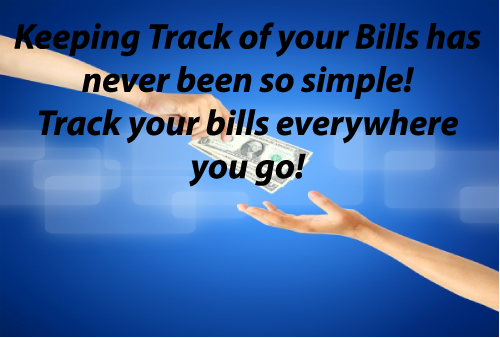
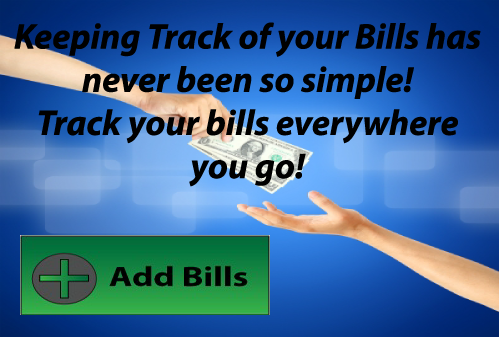
major updates to almost all aspects of app

Changed region(s): [[0.03, 0.6805, 0.54, 0.9467]]

diff --git a/index.html b/index.html
@@ -25,16 +25,18 @@ URL: http://grind-design.com
 		<body>
 			<hgroup>
 				<h1><img src="img/brand.jpg" border=3 /></h1>
-				<h2>keep a simple list of your bills. </h2>
     		</hgroup>
     		<ul>
 				<li><input type="text" id="searchField" placeholder="Search For Bills" /><input type="button" value="Bill Search" id="searchButton"/>
 				</li>
 			</ul>
-			<div data-role="content">
-				<img id="cta" src="img/ctabg.png">
-            	<p class="padding"><a href="additem.html" class="likeAButton" id="button"><img src="img/addItemButton.jpg"/></a></p>
-            </div>
+			<h3><a href="additem.html" class="browse" id="cta"><img id="ctaimg" src="img/ctabg.png"></a></h3>
+            <p><img src="img/Browsemain.png"/></p>
+            <p><a href="error404.html" class="browse" id="billType"><img id="billTypeImg" src="img/btypeimg.png"></a></p>
+            <p><a href="error404.html" class="browse" id="priority"><img id="priorityImg" src="img/prioimg.png"></a></p>
+            <p><a href="error404.html" class="browse" id="dueDate"><img id="dueDateImg" src="img/dueimg.png"></a></p>
+            <p><a href="error404.html" class="browse" id="frequency"><img id="frequencyImg" src="img/freqimg.png"></a></p>
+            <p><a href="error404.html" class="browse" id="paymentType"><img id="paymentTypeImg" src="img/payimg.png"></a></p>
 			<footer>
 			<p> Follow my <a href = "https://github.com/grindnmosh">github</a> for updates </p>
 			<p> Like my work? Follow me on <a href = "https://twitter.com/grindnmosh">Twitter</a></p>
@@ -42,5 +44,4 @@ URL: http://grind-design.com
 		</footer>
 		<script type="text/javascript" src="js/main.js"></script>
 	</body>
-	-->
 </html>

diff --git a/css/main.css b/css/main.css
@@ -25,6 +25,9 @@ h2 {
 	margin: 20px;
 	border: 2px solid black;
 }
+h3 { 
+	text-align: center; 
+}
 form {
 	color: blue;
 	margin: 20px;
@@ -44,7 +47,6 @@ fieldset {
 }
 p { 
 	text-align: center; 
-	line-height: 2em;
 }
 li { 
 	font-family: times;
@@ -58,7 +60,6 @@ li {
 }
 body ul li {
 	list-style: none;
-	text-align: center;
 }
 #searchField {
 	width: 300px;
@@ -92,42 +93,35 @@ form fieldset ul select {
 #freqs {
 	display: inline;
 } 
-#bill {
-	border: 1px solid black;	
-	background: white;
-	padding: 10px 10px 10px 10px;
-	list-style: none;	
-}
 #addNewBill {
 	display: none
 }
 p.padding {
 	padding:0px 65px 100px 65px;
 }
-a.likeAButton {
-	padding:3px 3px 3px 3px;
-	margin:1px;
-	text-decoration:none;
-}
-a.likeAButton:hover {
-	padding:3px 3px 3px 3px;
-	margin:1px;
-	text-decoration:none;
-	border: 2px solid darkblue
-}
-a.likeAButton:active {
-	padding:4px 2px 2px 4px;
-	margin:1px;
-	text-decoration:none;
-}
 .errors {
 	color: red;
 	border: 1px solid red;
+}
+#ctaimg {
+	align: center;
+}
+.browse {
+	align: center;
+}
+h2 {
+	align: center;
 }
 #saveMe {
 	margin-left: 100px;
 	display: inline;
 	background: green;
+}
+div {
+	list-style: none;
+	border: 1px solid black;	
+	background: white;
+	padding: 10px 10px 10px 10px;	
 }
 #resetMe {
 	margin-left: 150px;

diff --git a/js/json.js b/js/json.js
@@ -24,7 +24,7 @@ var sampleBills = {
 		"lfee": ["Late Fee?: ", "N/A"],
 		"textArea": ["comments: ", "Pay extra 30 to help with higher summer bills."]
 	},
-	"loan": {
+	"edu": {
 		"btype": ["Bill Type: ", "Education"],
 		"bname": ["Bill Name: ", "Student Loan"],
 		"prio": ["Bill Priority: ", "5"],

diff --git a/error404.html b/error404.html
@@ -8,7 +8,8 @@
 <h2>The page cannot be found!</h2><br>
 The page you have requested cannot be found on this server.<br>
 <br>
-HTTP 404 - File Not Found
+HTTP 404 - File Not Found<br>
+<a href = "index.html"><input type="button" value="Back" id="back"/></a>
 </body>
 </html>
 
